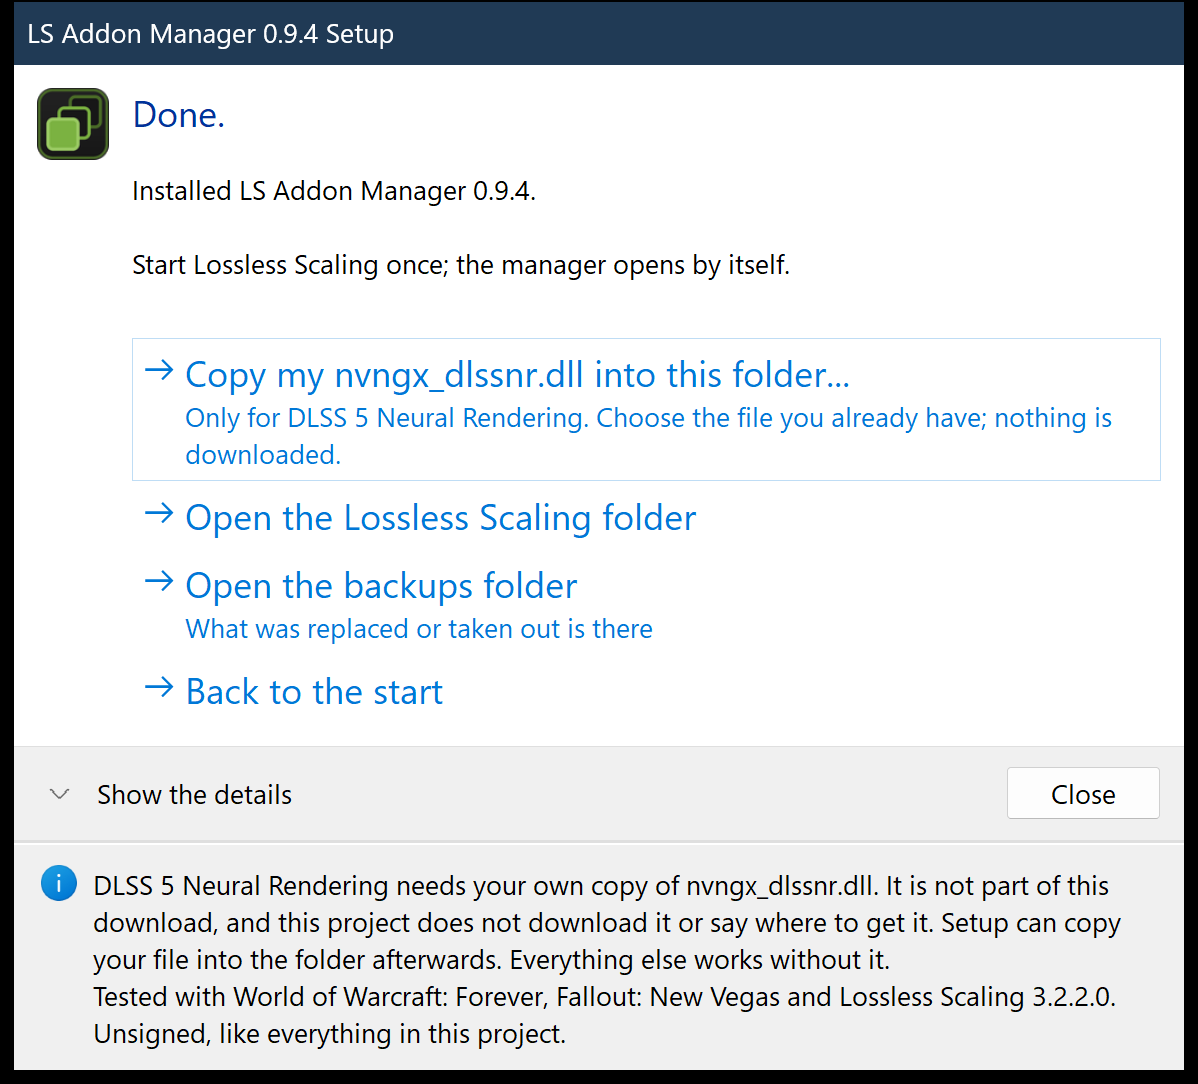
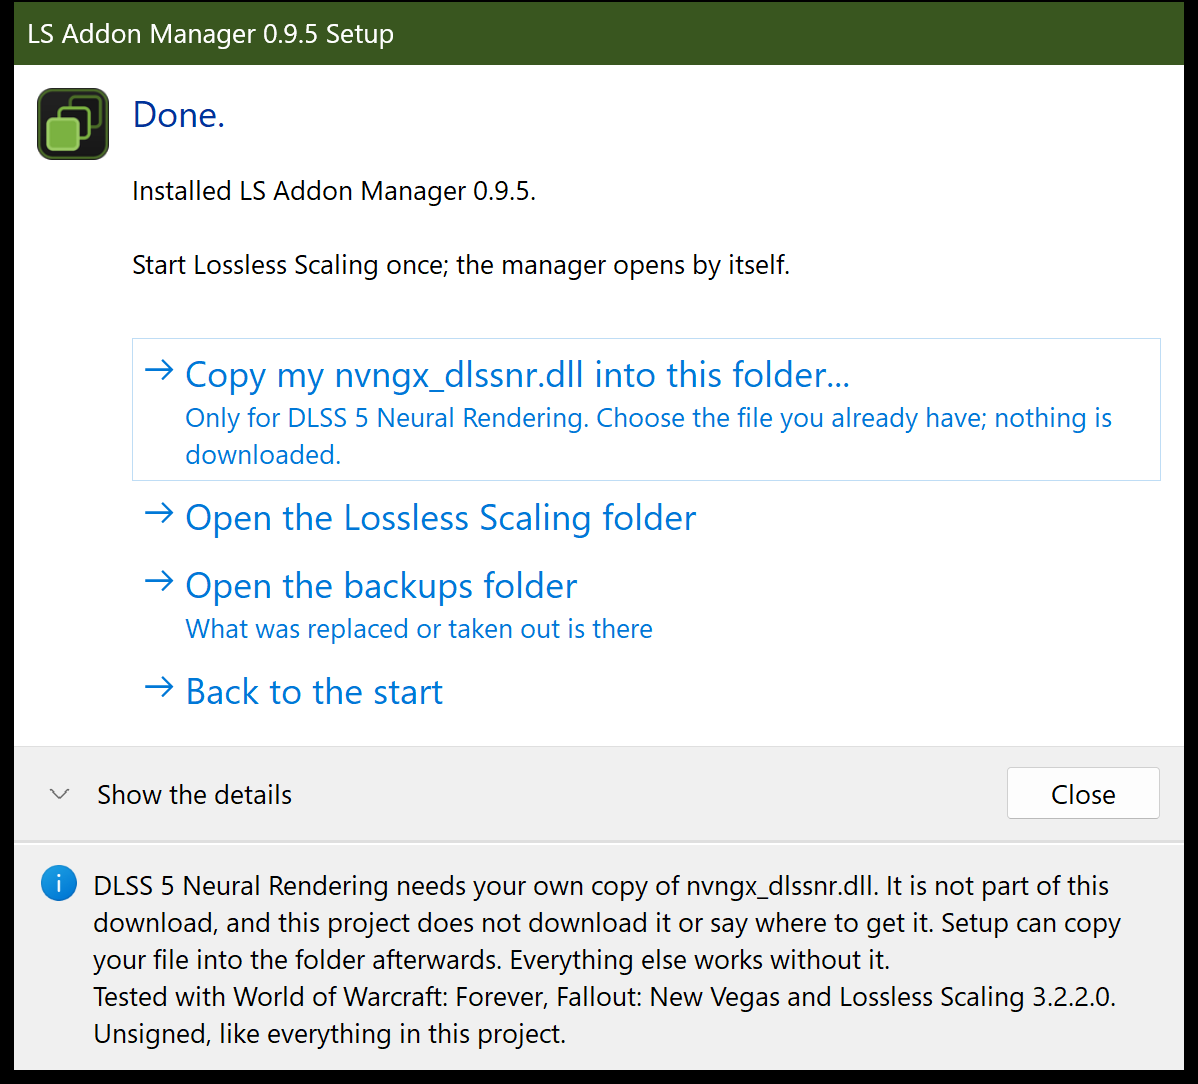
0.9.5 docs: README describes the Runtimes list, FSR version and FSR 4, DLSS model E, the upscalers' colour and tone, HDR and the recorder; Setup's pictures retaken at 0.9.5; the HUD picture cropped to the game (it showed Echo Addon Manager 0.8.0). Recorder hotkey Ctrl+Shift+F5 (F12 is the manager's 

Changed region(s): [[0.0, 0.0, 0.9883, 0.0609], [0.4324, 0.1522, 0.4633, 0.1827]]

diff --git a/addons/DLSS5NR01/src/addon/settings.h b/addons/DLSS5NR01/src/addon/settings.h
@@ -44,7 +44,7 @@ struct Config {
     bool freshFlow = true;               // run the model once LSFG has this frame's own motion (off: at capture, with the frame before's)
     bool lsFirst = true;                 // give Lossless Scaling's GPU work priority over the model's
     bool hotkeys = true;                 // Ctrl+Shift + an F key, read at every present
-    int keyAB = VK_F6, keySplit = VK_F7, keySharpDn = VK_F8, keySharpUp = VK_F9, keyPreset = VK_F10, keyShot = VK_F11, keyRecord = VK_F12;
+    int keyAB = VK_F6, keySplit = VK_F7, keySharpDn = VK_F8, keySharpUp = VK_F9, keyPreset = VK_F10, keyShot = VK_F11, keyRecord = VK_F5;
     bool recordOn = false;               // the recorder (recorder.h): keep the last few seconds of frames ready to save
     float recordSeconds = 5.0f;
     int recordBudgetMb = 3072;           // at most this much memory for them (the oldest go first)

diff --git a/addons/DLSS5NR01/src/addon/settings.cpp b/addons/DLSS5NR01/src/addon/settings.cpp
@@ -175,7 +175,8 @@ Loaded LoadSettings(IHost* host, const char* id) {
     c.hotkeys = flag("hotkeys", true);
     c.keyAB = integer("keyAB", VK_F6); c.keySplit = integer("keySplit", VK_F7); c.keySharpDn = integer("keySharpDn", VK_F8);
     c.keySharpUp = integer("keySharpUp", VK_F9); c.keyPreset = integer("keyPreset", VK_F10); c.keyShot = integer("keyShot", VK_F11);
-    c.keyRecord = integer("keyRecord", VK_F12);
+    c.keyRecord = integer("keyRecord", VK_F5);
+    if (c.keyRecord == VK_F12) c.keyRecord = VK_F5;   // the first default, saved by builds before 0.9.5: Ctrl+Shift+F12 is the manager's own (show its window)
     c.recordOn = flag("recordOn", false);
     c.recordSeconds = std::clamp(static_cast<float>(number("recordSeconds", 5.0)), 1.0f, 60.0f);
     c.recordBudgetMb = std::clamp(integer("recordBudgetMb", 3072), 256, 65536);

diff --git a/addons/DLSS5NR01/src/addon/recorder.h b/addons/DLSS5NR01/src/addon/recorder.h
@@ -1,5 +1,5 @@
 // The recorder: the last few seconds of the frames the addon receives, kept in memory (losslessly compressed) and saved as a .lsrec file on
-// request (the panel's button, Ctrl+Shift+F12). For bug reports that can be replayed offline (nr_hosttest replay=), tests and tuning on real
+// request (the panel's button, Ctrl+Shift+F5). For bug reports that can be replayed offline (nr_hosttest replay=), tests and tuning on real
 // footage, and comparisons. It records the frames as they come in, before anything of ours is done to them.
 //
 // Nothing ever waits: each frame is copied on the GPU into one of a few staging textures; a later call maps it without waiting (the GPU has

diff --git a/README.md b/README.md
@@ -56,6 +56,8 @@ Scaling wait for it.
 - **Keep the HUD untouched:** take a snapshot of the game and draw the areas the model must leave alone (action bars, chat, the minimap); saved with each look.
 - **Picture controls:** intensity, fine detail, local contrast, skin detail, sharpening, tone, colour and vibrance, shadows and highlights, film grain, temporal smoothing
   and a ghost guard that fades the result where the motion cannot be trusted.
+- **HDR games too:** 16-bit (scRGB) and 10-bit (HDR10) frames are worked on through an SDR view of them, and only the change goes back, so
+  highlights keep their brightness. Automatic, with a *Frame encoding* setting for a setup it gets wrong.
 - **Compare while you play:** before / after, a split view, screenshots of what you see (Ctrl+Shift+F6 to F11).
 - **Auto quality:** keeps the model within a time budget by picking its resolution; changing it never stalls the game.
 - **Requirements check** and a **compatibility test** that tries the model on your card before you play.
@@ -71,28 +73,33 @@ frames and the motion between them, which gives a steadier, more detailed pictur
 support from the game: **the addons measure the motion from the frames themselves.** In Lossless Scaling choose **NIS** as the Scaling Type and run the game in a window
 smaller than the screen (for example 2560x1440 on a 4K screen); at the screen's own size they anti-alias instead (DLAA, FSR native AA).
 
-- **DLSS Upscaler:** NVIDIA DLSS Super Resolution, with the choice of NVIDIA's default model (K) or DLSS 4.5's M. NVIDIA RTX.
-- **FSR Upscaler:** AMD FidelityFX Super Resolution 3.1 with AMD's own sharpening (RCAS). Any DirectX 12 graphics card: AMD, NVIDIA or Intel.
-  FSR 4 (the OptiScaler team's 4.1.1b INT8 build, which runs on cards AMD's own FSR 4 does not) is one click away in the manager's
-  Runtimes list: the + next to FSR, bottom left.
+- **DLSS Upscaler:** NVIDIA DLSS Super Resolution with the model of your choice: NVIDIA's default K (DLSS 4), DLSS 4.5's M, or DLSS 3's E,
+  which keeps a still picture crisper here. NVIDIA RTX.
+- **FSR Upscaler:** AMD FidelityFX Super Resolution with AMD's own sharpening (RCAS). Any DirectX 12 graphics card: AMD, NVIDIA or Intel.
+  *FSR version*, right under its Enable switch, picks AMD's FSR 3.1.4 (shipped, signed) or **FSR 4**: the OptiScaler team's 4.1.1b INT8
+  build, AMD's machine-learning upscaler made to run on cards AMD's own FSR 4 does not support, NVIDIA's included. It follows a moving
+  picture noticeably better. Switching takes a second while the game runs.
 - **Frame generation on or off**, every frame it presents, real and generated.
 - **4:3 and other window shapes:** a window of another shape than the screen is upscaled into the part of the screen Lossless Scaling puts it in, borders left alone.
-- **Stability:** less shimmer on thin lines, wires and leaves (the upscaler averages the flicker out), while thin things that move stay sharp.
+- **Stability:** less shimmer on thin lines, wires and leaves (the upscaler averages the flicker out), while thin things that move stay sharp. FSR 4 does this by itself.
 - **Edge smoothing:** anti-aliasing of the upscaled picture's edges, for older games without anti-aliasing of their own.
 - **Sharpening** from none to well past the upscaler's own maximum.
-- **Settings per game:** sharpening, stability, edge smoothing, the model and the motion are kept for each game and come back when it takes focus.
+- **Colour and tone:** vibrance, saturation, shadows, highlights, brightness, contrast and gamma, applied before upscaling, so they cost
+  nothing. While DLSS 5 Neural Rendering is on, its own Picture controls take over, so nothing is applied twice.
+- **Settings per game:** sharpening, stability, edge smoothing, colour and tone, the model and the motion are kept for each game and come back when it
+  takes focus.
 - **Before / after** hotkey to compare with NIS while you play, and a line of live numbers (pictures a second, how many waited or repeated).
 - Only one of the two runs at a time; both work beside Neural Rendering.
 
 What they cost on an RTX 4070 Ti SUPER (everything the addon does, the motion measurement included):
 
-| | DLSS 4 (model K) | FSR 3 |
+| | DLSS (model K) | FSR 3.1 |
 |---|---|---|
 | 1920x1080 -> 3840x2160 | | about 1.5 ms |
 | 2560x1440 -> 3840x2160 | about 2.4 ms | about 1.85 ms |
 | 3840x2160 at 1:1 (anti-aliasing) | about 3.2 ms | about 2.2 ms |
 
-**Which one?** On an NVIDIA RTX card try both: DLSS smooths edges better by itself, FSR 3 costs less and keeps text crisper. On any other card, FSR. If the game has
+**Which one?** On an NVIDIA RTX card try both: DLSS smooths edges better by itself, FSR 3.1 costs less and keeps text crisper, and FSR 4 is the best in motion. On any other card, FSR. If the game has
 anti-aliasing of its own (MSAA), switch it on: it draws what no upscaler can put back, such as wires thinner than a pixel. The [upscalers' guide](addons/DLSS5NR01/docs/upscalers.md)
 covers the settings, what to expect and what to do when something is wrong.
 
@@ -111,6 +118,12 @@ covers the settings, what to expect and what to do when something is wrong.
   clocks, temperature and memory, and a plain-words reading ("the GPU is at its power limit").
 - **Install and remove addons without touching folders.** *Install addon* takes a folder, a zip or a lone DLL, or drop one on the window. New addons arrive
   switched off. *Remove* moves an addon into `addons\.removed` after asking; nothing is ever erased.
+- **Runtimes, at the bottom of the addon list.** Every file the addons run on (NVIDIA's DLSS, AMD's FSR, your Neural Rendering model) with
+  its version, a tick when it is loaded, a circle when its addon waits for a game, a cross when its addon is off, and *unsigned* or
+  *modified* when the file is not as its maker signed it. Hover for the maker, the path and the SHA-256. **+** switches between the shipped
+  file and others you add, while the game runs; *Shipped* is always the first choice, and updates never touch your files.
+- **Record a bug.** Each addon can keep the last few seconds of the frames it receives and save them (Ctrl+Shift+F5) as a file that plays the
+  problem back on another computer.
 - **Each addon's own settings, inline**, with its live status in the list and in the status bar. Sliders reset on double-click, show a tick at their default, and
   fine-tune with Ctrl+scroll.
 - **Stays out of the way.** Opens with Lossless Scaling, hides to the notification area when you close it, and comes back with a click or **Ctrl+Shift+F12**.

diff --git a/CHANGELOG.md b/CHANGELOG.md
@@ -37,7 +37,8 @@
 - **Tests:** matrix scenarios `fsr_runtime_switch` and `dlss_runtime_switch` switch the runtime mid-run (the host test's `nisswitch=`).
 
 - **A recorder, in all three addons** (Recording, for bug reports and tests). It keeps the last few seconds of the frames the addon receives,
-  losslessly, and saves them as a `.lsrec` file on a button or Ctrl+Shift+F12.
+  losslessly, and saves them as a `.lsrec` file on a button or Ctrl+Shift+F5 (F12
+  is the manager's own hotkey).
   - **What it records.** Neural Rendering records the game's frames before the model sees them; the upscalers record Lossless Scaling's
     frame before NIS.
   - **What they're for.** A saved file plays back through the addon on another computer (the test host's `replay=`), so a reported

diff --git a/addons/DLSS5NR01/README.md b/addons/DLSS5NR01/README.md
@@ -94,7 +94,7 @@ including why each hook is the kind it is, is in [docs/architecture.md](docs/arc
 ## Recording (for bug reports)
 
 *Recording* in the panel keeps the last few seconds of the frames the addon receives (the game's frames, before anything is done to
-them) in memory, losslessly compressed, and saves them as a `.lsrec` file on its button or Ctrl+Shift+F12. It's off by default. On, it
+them) in memory, losslessly compressed, and saves them as a `.lsrec` file on its button or Ctrl+Shift+F5. It's off by default. On, it
 uses some processor time and up to the memory set there (about 2 to 3 GB for 5 seconds of 1080p at 120 frames a second). Files go to
 `Videos\Lossless Scaling`. Sending one with a bug report lets the problem be replayed on another computer:
 
